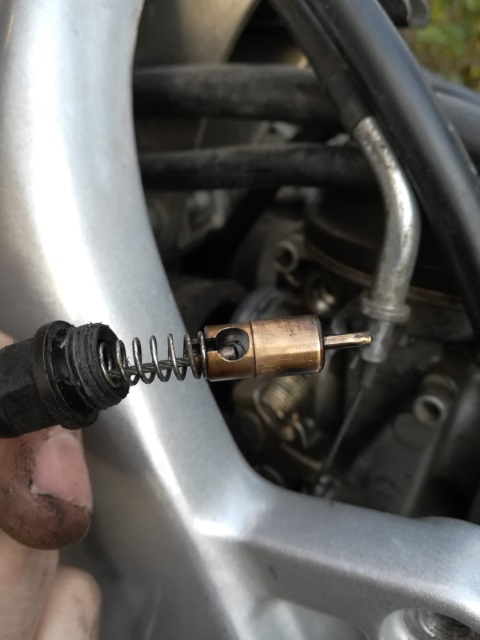
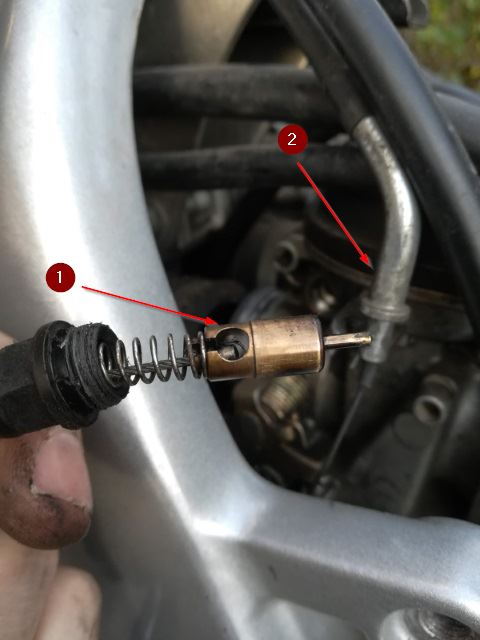
added post

Changed region(s): [[0.5625, 0.1875, 0.7812, 0.4375], [0.0938, 0.4062, 0.4688, 0.5312]]

diff --git a/_includes/head.html b/_includes/head.html
@@ -1,7 +1,7 @@
 <head>
   <meta charset="UTF-8">
   <meta name="viewport" content="width=device-width, initial-scale=1.0">
-  <meta type="description" contant = "{{page.description}}"/>
+  <meta type="description" content = "{{page.description}}"/>
   <title>
     {% if page.title == "Home" %}
       {{ site.title }} &middot; {{ site.tagline }}

diff --git a/_posts/2018-11-04-aprilia-pegaso-650-carburettor-removal.md b/_posts/2018-11-04-aprilia-pegaso-650-carburettor-removal.md
@@ -1,8 +1,9 @@
 ---
 layout: post
 title: Aprilia pegaso 650 cube carb removal
-date: '2018-10-23'
-tags: teamcity
+description: Remove the carburettor from an aprilia pegaso 650
+date: '2018-11-04'
+tags: motorcycle
 ---
 
 The 36 steps to remove the carburettor from an aprilia pegaso 650 (cube, model '97) 
@@ -15,9 +16,10 @@ I am by no means a professional mechanic but I like machines and ocasional chall
 
 To perform this operation I followed the procedure as described in the service manual.
 
-This is the first time I attempt this.
+This will be my first attempt at this.
 
-The motorcycle in one piece
+
+The motorcycle in one piece. Realy a dinousaur, no fuel injection, no fuel pump, no computers, just gravity and world war 2 technology
 
 ![placeholder](/public/aprilia_carb_removal/start.jpg "start")
 
@@ -25,64 +27,65 @@ The motorcycle in one piece
 
 Outline 
 
-Well the carb's are well hidden, to get to them I have to remove the fuel tank and the exhausts, and a whole bunch of other screws.
+The bad news is that the carbs are well hidden, to get to them I have to remove the fuel tank and the exhausts, and a whole bunch of other screws.
 
+Tools that are needed: no 4,5 allen wrench, no 10 wrench or socket key, long screwdrivers
 
 Step by step procedure 
 
- 1. Remove the sides
+ 1. Remove the side fairings
  2. Disconnect the fuel pipes and sensor
  3. Remove the fuel tank
- 4. Remove the passager steppers
- 5. Remove the exhaust silencers 
- 6. Remove the fuel tank suport plate 
- 7. Tilt the rear subrame to expose the carbs  
- 8. Disconnect the choke cable 
- 9. Disconnect the acceleration cable 
- 10. Losen the carb fastener 
- 11. Extract the carburetors
+ 4. Remove the fuel tank suport plate 
+ 5. Remove the passager steppers
+ 6. Remove the exhaust silencers 
+ 7. Tilt/pivot the rear subrame 
+ 8. Loosen the carb fastening collars
+ 8. Disconnect the choke, acceleration cable 
+ 9. Disconnect the idle screw cable
+ 10. Extract the carburetors
 
-Start by closing the fuel tap, the manual calls for emptying the tank which I did not do but I figure an almost empty tank will be good enough.
+I start with an almost empty tank and closing the fuel tap, the manual calls for emptying the tank, which I won't do.
 
-Remove the sides, unscrew 4 screws per side, total 8 screws, allen wrench no. 4
+Remove the sides by unscrewing screws `1-4` per side.
 
 ![placeholder](/public/aprilia_carb_removal/sides.jpg "sides")
 
-Unscrew the tank fastener screws. 3 screws per side, total 6 screws, allen wrench no. 4.
-
-Unscrew the tank fastener undeneatch the seat, no. 10 wrench
+To remove the fuel tank, unscrew the tank fastener screws `1-3` per side and the screw `4` undeneath the seat.
 
 ![placeholder](/public/aprilia_carb_removal/tank0.jpg "tank screws")
 
-Disconnect the empty tank sesor 
+Disconnect the empty tank sensor `1`.
 
 ![placeholder](/public/aprilia_carb_removal/tank1.jpg "sensor")
 
-Disconnect the main fuel pipe
+Disconnect the main fuel pipe `1`.
 
 ![placeholder](/public/aprilia_carb_removal/tank2.jpg "main fuel pipe")
 
-Disconnect the overflow pipe
+Disconnect the overflow pipe `1`.
 
 ![placeholder](/public/aprilia_carb_removal/tank3.jpg "overflow pipe")
 
-Unbolt the tank support plate, 2 screws, no. 5 allen wrench 
+I can remove the tank now by gently lifting the rear side and pulling at an inclined angle. The front fairing is flexible and bends enough to make room, it does not have to be removed. I don't have a separate pic for this
+
+I remove the tank support plate, by unscrewing screws `1,2`
 
 ![placeholder](/public/aprilia_carb_removal/tank4.jpg "tank plate")
 
-Remove the 2nd passager's steppers, 2 screws per side, total 4 screws, no. 10 wrench  
+To remove the exhausts, first remove the 2nd passager's steppers, by unscrewing screws `1,2`
 
 ![placeholder](/public/aprilia_carb_removal/steppers.jpg "start")
 
-Loosen the exhaust silencer fasteners, 2 screws, no. 4 allen wrench 
+Loosen the exhaust silencer fasteners, screws `1,2`
 
 ![placeholder](/public/aprilia_carb_removal/exhaust1.jpg "exhaust fastener")
 
-Remove the exhaust screws, 3 screws per exhaust, 6 total, no. 10 wrench
+Unscrew screws `1-3` and slowly retract and remove the exhaust silencers.
 
 ![placeholder](/public/aprilia_carb_removal/exhaust2.jpg "exhaust silencer")
 
-Here's the tank and exhausts removed ... 
+Here are the tank and exhausts removed ... 
 
 ![placeholder](/public/aprilia_carb_removal/stripped1.jpg "stripped")
 
@@ -90,30 +93,48 @@ and the stripped motorcycle ...
 
 ![placeholder](/public/aprilia_carb_removal/stripped2.jpg "stripped moto")
 
-Ready to tackle the carbs ...
+Next, ready to tackle the carbs ...
 
-Loosen the collars on the carb air intake.
+First I loosen the collars on the carb air intake (not shown on pic)
 
-Remove the two upper screws holding the rear subframe, this will allow the subframe to pivot  around the two lower screws and move out of the way. Once the gap is wide enough I fasten the lower screws so that the frame stays in this position
+I remove the two upper screws `1,2` holding the rear subframe, this will allow the subframe to pivot around the two lower screws (not shown on pic). 
 
+Gently tilt/pivot the frame to make a ~5cm gap. Once the gap is wide enough to pull the carbs out, I fasten the lower screws so that the frame stays in this position. 
 
-![placeholder](/public/aprilia_carb_removal/carb1.jpg "start")
+The next pic is showing the tilted subframe. The original/starting position is shown in the previous pic.
 
-Disconnect the choke cable, the black plastic screw, this has to be unscrewed, then the the choke plunger can be retracted. Disconnect (unhook) the acceleration cable, disconnect the idle cable.
+![placeholder](/public/aprilia_carb_removal/carb1.jpg "tilt frame")
+
+I loosen the collars on the engine side of the carb (not show on pic), pull on the carbs until they are out of the rubber intake manifold.
+
+Before I take out the carbs I have to 
+
+ - disconnect the choke cable, that's the black plastic screw in pic and the choke plunger attached `1`
+ - unhook the acceleration cable `2`
+ - disconnect the idle cable, see the hidden safety pin on the inside that has to come off in pic `3`
 
 ![placeholder](/public/aprilia_carb_removal/carb2.jpg "carb cables")
 
-The choke cable connector is a plastic screw, has to be handled gently to not damage the threads. 
+![placeholder](/public/aprilia_carb_removal/carb3.jpg "carb choke")
 
-![placeholder](/public/aprilia_carb_removal/carb3.jpg "carbe choke")
-
-Here's the carb taken out
+Finally the carbs taken out, two `Mikuni bst-33` CV carburettors. 
 
 ![placeholder](/public/aprilia_carb_removal/carb4.jpg "carb out")
 
 
 ## Learnings & tips 
 
+It took me about 3 hours to take everything off, probably second time I can do it much faster.
 
-You can skip no. ...
+It really takes 36 steps to get the carb out, which is kind of a bummer I expected much less work. 
 
+The parts that require extra attention
+
+ - To not damage the 20 years old rubber manfolds that hold the carburettor. 
+ - The choke cable connector is a joke plastic screw, has to be handled gently to not damage the thread. 
+ - To not lose the tiny parts: idle cable safety pin, choke plunger spring
+
+This was a satisfying saturday afternoon work, I deserve a beer now.
+
+
+Optimization The no. `4. Remove the fuel tank suport plate` is not mandatory, there is space to remove the carbs even with these attached.
